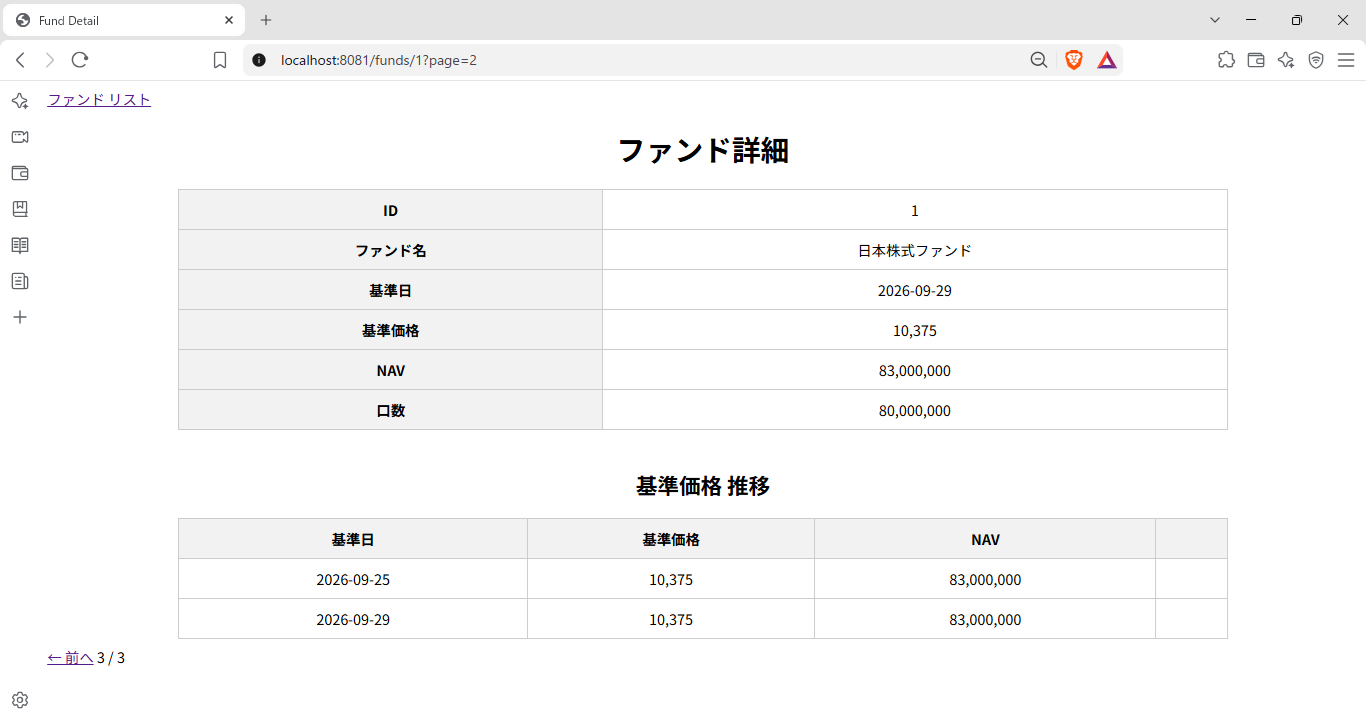
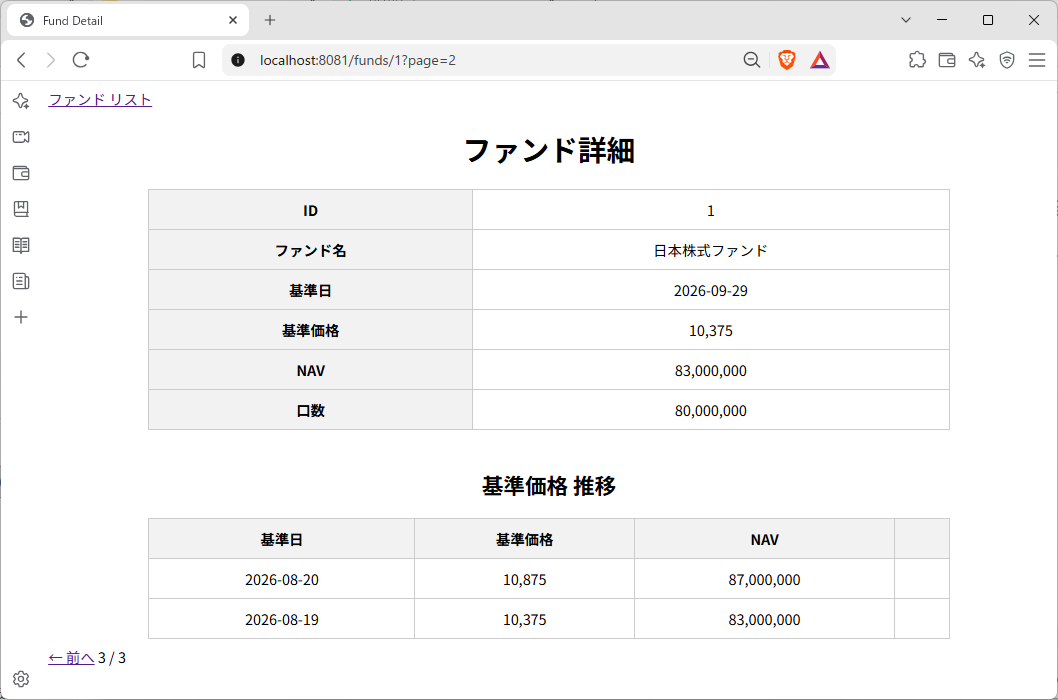
Readme.md update

diff --git a/src/main/java/com/portfolio/assetmanagement/controller/FundViewController.java b/src/main/java/com/portfolio/assetmanagement/controller/FundViewController.java
@@ -43,7 +43,7 @@ public class FundViewController {
         //List<FundNavHistory> history =
         //        historyRepository.findByFundOrderByNavDateDesc(fund);
         Pageable pageable = PageRequest.of(page, PAGE_SIZE,
-                Sort.by(Sort.Direction.ASC, "navDate"));
+                Sort.by(Sort.Direction.DESC, "navDate"));
         Page<FundNavHistory> history = historyRepository.findByFund(fund, pageable); //  .findByFund(fund, pageable);
         model.addAttribute("fund", fund);
         model.addAttribute("history", history);
